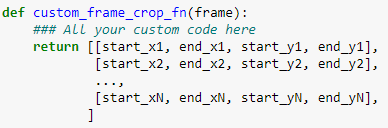
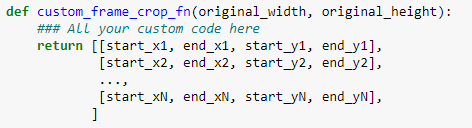
VideoDataGenerator v1.9

diff --git a/DatasetsLoader.py b/DatasetsLoader.py
@@ -1,5 +1,6 @@
 """Video Data Generator for Any Video Dataset with Custom Transformations
 You can use it in your own and only have two dependencies with opencv and numpy.
+Version: 1.9.0
 """
 
 import os
@@ -18,7 +19,7 @@ class VideoDataGenerator():
                  batch_size = 32,
                  original_frame_size = None,
                  frame_size = None,
-                 video_frames = 16,
+                 video_frames = None,
                  temporal_crop = (None, None),
                  frame_crop = (None, None),
                  shuffle = False,
@@ -57,7 +58,6 @@ class VideoDataGenerator():
 
         self.ds_directory = directory_path
         self.batch_size = batch_size
-        self.video_frames = video_frames
         self.transformation_index = 0
         self.dev_path = None
         self.dev_data = None
@@ -121,6 +121,26 @@ class VideoDataGenerator():
                                  'frames ya que el tamaño de salida ({w}, {h}) es mayor al original y '
                                  'los datos originales no seran salvados por lo que tendra todos los datos vacios.'.format(w = self.frame_size[0],
                                                                                                                h = self.frame_size[1]))
+
+        """Proceso de establecer el valor de video frames si se establecio en None con los minimos frames de todos los videos"""
+        if video_frames:
+            self.video_frames = video_frames
+        else:
+            minimo = len(os.listdir(self.videos_train_path[0]))
+            for video in self.videos_train_path:
+                nro_frames = len(os.listdir(video))
+                if nro_frames < minimo:
+                    minimo = nro_frames
+            for video in self.videos_test_path:
+                nro_frames = len(os.listdir(video))
+                if nro_frames < minimo:
+                    minimo = nro_frames
+            if self.dev_path:
+                for video in self.videos_dev_path:
+                    nro_frames = len(os.listdir(video))
+                    if nro_frames < minimo:
+                        minimo = nro_frames
+            self.video_frames = minimo
 
         """Proceso de generar los datos con o sin transformaciones"""
         if conserve_original and temporal_crop[0] not in (None, 'sequential'):

diff --git a/README.md b/README.md
@@ -6,18 +6,26 @@ in a folder and load sequentially from it.
 the notation of channels in the last dimension. NFHWC (N - Batch, F - Frames, 
 H - Height, W - Widht and C - Channels). 
 
-**Actual version: v1.8**
+**Actual version: v1.9**
 
 - Features:
-    - Work with the API of tensorflow `keras.model.fit_generator`.
+    - Deleted the option to work with video files (*avi, *.mp4, etc). The reason is
+    given by the performance, when we use files or a mix of files and folders we 
+    need to add an extra work that slow substantial the process of training.
+    - Work with the API of tensorflow `keras.model.fit_generator` and actually
+    the API apply parallelism in the generator so It's not necessary parallelize 
+    `VideoDataGenerator`.
+    - Fixed a bug with the folder dev, when creating the object this folder is ignored.
+    - Fixed a bug in sequentia, random and custom frame crop by a infinite loop 
+    when the option of `conserve_original` is True.
+    - Added a file `main.py` that is a tutorial of how to use custom functions.
+    - Option to establish `video_frames` in `None` and all the videos will have the same length 
+    given by the video with the minimum frames in train, test or dev.
     
 - Future features:
     - Add `video_transformation`.
-    - Do all the heavy task in parallel with threads and multiprocessors.
     - Do the `video_transformation` in parallel 
     with threads and multiprocessors.
-    - Option to establish `video_frames` in `None` and all the videos will have the same length 
-    given by the video with the minimum frames.
 
 # Documentation
 
@@ -40,17 +48,14 @@ order to `VideoDataGenerator` works:
         - Classes (In folder)
             - Videos (In folders)
                 - Frames (Files in jpg, png, tiff or ppm)
-            - Videos (In avi or mp4) **Future release**
     - test
         - Classes (In folder)
             - Videos (In folders)
                 - Frames (Files in jpg, png, tiff or ppm)
-            - Videos (In avi or mp4) **Future release**
     - dev
         - Classes (In folder)
             - Videos (In folders)
                 - Frames (Files in jpg, png, tiff or ppm)
-            - Videos (In avi or mp4) **Future release**
                 
 If you see, yes... Only accepts the folders of train, test and dev data (Dev is 
 optional but train and test are required) so order you dataset and enjoy 
@@ -72,7 +77,7 @@ size in a tuple like `(width, height)`.
 - `frame_size`: Default None, it specifies the final image size to return
 after applying transformations. None means the original size and you must pass the
 size in a tuple like `(width, height)`.
-- `video_frames`: Default 16, it specifies the final video frames to return.
+- `video_frames`: Default None, it specifies the final video frames to return.
 - `temporal_crop`: Default is `(None, None)`, it specifies what type of operation 
 over the temporal axis must be done. For more information read the below section.
 - `video_transformation`: Default None, it specifies what transformation 
@@ -134,18 +139,17 @@ specified:
 
 **Basic parameters**
 
-1. An important consideration is that all the dataset must have the same size
-otherwise `VideoDataGenerator` will assume that all your dataset have an 
-original size of the first frame in the first video of training data.
+1. An important consideration is that all the dataset videos must have the same 
+size (width and height) otherwise `VideoDataGenerator` will assume that all your 
+dataset have an original size of the first frame in the first video of training videos. 
 
-2. In the structure of the dataset all the videos must be folders or files 
-but no a mix of both. In a future release it will work with both at the same time.
+2. In the structure of the dataset all the videos must be folders.
 
 1. `original_frame_size`:  This parameter is fundamental when you have to 
 start with an original frame size of videos. For example you use it commonly
 when have to replicate experiments. If you doesn't specified this parameter
 then `VideoDataGenerator` will take the frame size of the first frame in
-the first video to be the original size.
+the first video of training videos to be the original size.
 
 1. `conserve_original`: When you apply transformation, generally, is in order to
 increase the dataset but sometimes you need to transform completely your data
@@ -155,7 +159,6 @@ the transformation that you need (of course if you select `'sequential'` to
 transform the data it won't apply twice) and for this data the `frame_crop` 
 option will be `None` so the frame size will be resized to the `frame_size`
 specified by the user.
-
 
 **Temporal crop**
 
@@ -225,7 +228,7 @@ crops to apply. (The image below is the example with 3 random crops).
 
 - **`custom`:** Another powerful option in `VideoDataGenerator`because you have to 
 pass as parameter a callback of a function that you made to apply the frame crop. The 
-structure of the function is the following:
+structure of the function is the following (Note tha x refers to the width and y to the height):
 
 ![custom_crop](img/custom_frame_crop.png)
 
